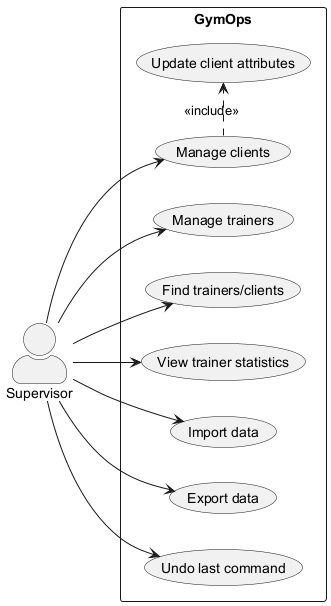
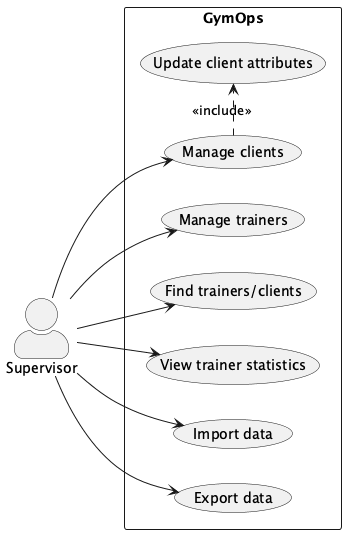
Fix UG/DG consistency, correct UML diagrams, remove stale AB3 references

Changed region(s): [[0.0, 0.0, 0.997, 1.0], [0.2417, 0.809, 0.2719, 0.839], [0.2115, 0.779, 0.2417, 0.809]]

diff --git a/docs/UserGuide.md b/docs/UserGuide.md
@@ -389,16 +389,17 @@ Format: `stats`
 
 #### Deleting a trainer: `delete-trainer`
 
-Deletes a trainer from GymOps.
+Alias for `delete t/INDEX`. Deletes a trainer from GymOps.
 
 Format: `delete-trainer INDEX`
 
 * `INDEX` must refer to a trainer in the **trainer list**.
+* This command is equivalent to `delete t/INDEX`.
 
 <div markdown="span" class="alert alert-warning">:exclamation: **Caution:** A trainer cannot be deleted if they still have active clients. Use `delete-client` to remove their clients first.</div>
 
 Examples:
-* `delete-trainer 1` — deletes the 1st trainer.
+* `delete-trainer 1` — deletes the 1st trainer (same as `delete t/1`).
 
 **Expected outcome:** The trainer is permanently removed from the application, and a success message is displayed.
 
@@ -521,16 +522,17 @@ Examples:
 
 #### Deleting a client: `delete-client`
 
-Deletes a client from GymOps. The client is permanently removed and unassigned from their trainer.
+Alias for `delete c/INDEX`. Deletes a client from GymOps. The client is permanently removed and unassigned from their trainer.
 
 Format: `delete-client INDEX`
 
 * `INDEX` must refer to a client in the **client list**.
+* This command is equivalent to `delete c/INDEX`.
 
 <div markdown="span" class="alert alert-info">:bulb: **Tip:** Run `find-clients NAME` first to locate the client, then use the index shown in the filtered list.</div>
 
 Examples:
-* `delete-client 1` — deletes the 1st client in the current list.
+* `delete-client 1` — deletes the 1st client in the current list (same as `delete c/1`).
 
 **Expected outcome:** The client is permanently removed from the application, their assigned trainer's client count is updated, and a success message is displayed.
 
@@ -666,6 +668,30 @@ If you enter an invalid tag (or break the JSON format), GymOps may fail to load 
 **Q: How do I transfer my data to another computer?**
 
 Install GymOps on the other computer and replace the empty data file it creates with your existing data file from `[JAR file location]/data/GymOps.json`.
+
+---
+
+**Q: Why can't I delete a trainer?**
+
+A trainer cannot be deleted if they still have active clients. Use `delete-client` or `delete c/` to remove all of the trainer's clients first, then delete the trainer.
+
+---
+
+**Q: Can I undo a command?**
+
+GymOps does not currently support an undo command. Before running destructive commands like `clear` or `delete`, consider running `export` first to back up your data.
+
+---
+
+**Q: Why does my calorie intake not reset to zero each day?**
+
+GymOps does not automatically reset daily calorie intake. You can reset a client's intake by running `log-calorie` with a corrected cumulative total, or by editing the data file directly while GymOps is closed.
+
+---
+
+**Q: Can I add tags via a command?**
+
+There is currently no CLI command to assign tags. Tags can only be added by editing the `tags` field in the data file directly (see [Editing the data file](#editing-the-data-file)). Only edit the file while GymOps is **closed**.
 
 ---
 

diff --git a/docs/DevOps.md b/docs/DevOps.md
@@ -52,7 +52,7 @@ In addition to running Gradle checks, CI includes some repository-wide checks. U
 
 These checks are implemented as POSIX shell scripts, and thus can only be run on POSIX-compliant operating systems such as macOS and Linux. To run all checks locally on these operating systems, execute the following in the repository root directory:
 
-`./config/travis/run-checks.sh`
+`./.github/run-checks.sh`
 
 Any warnings or errors will be printed out to the console.
 
@@ -73,7 +73,7 @@ Any warnings or errors will be printed out to the console.
 
 Here are the steps to create a new release.
 
-1. Update the version number in [`MainApp.java`](https://github.com/se-edu/addressbook-level3/tree/master/src/main/java/seedu/address/MainApp.java).
+1. Update the version number in `src/main/java/seedu/address/MainApp.java`.
 1. Generate a fat JAR file using Gradle (i.e., `gradlew shadowJar`).
 1. Tag the repo with the version number. e.g. `v0.1`
 1. [Create a new release using GitHub](https://help.github.com/articles/creating-releases/). Upload the JAR file you created.

diff --git a/docs/DeveloperGuide.md b/docs/DeveloperGuide.md
@@ -538,10 +538,10 @@ All three `find*` command parsers enforce the same keyword rules:
 
 1. The input must contain at least one keyword (empty input is rejected).
 2. Keywords are split by whitespace.
-3. Each keyword must match the regex `[\p{Alnum}\-'/]+`.
-    * i.e., only letters/digits plus `-`, `'`, `/` are allowed.
-    * examples of accepted keywords: `alex`, `tan`, `o'connor`, `upper-body`, `s/o`.
-    * examples of rejected keywords: `Bob@`, `Alice!`, `john.doe`.
+3. Each keyword must match the regex `[\p{Alnum}\-'/.]+`.
+    * i.e., only letters/digits plus `-`, `'`, `/`, `.` are allowed.
+    * examples of accepted keywords: `alex`, `tan`, `o'connor`, `upper-body`, `s/o`, `john.doe`.
+    * examples of rejected keywords: `Bob@`, `Alice!`, `john_doe`.
 
 These constraints keep parsing predictable and ensure that keywords remain unambiguous “tokens”.
 

diff --git a/docs/SettingUp.md b/docs/SettingUp.md
@@ -48,7 +48,7 @@ If you plan to use Intellij IDEA (highly recommended):
    When you are ready to start coding, we recommend that you get some sense of the overall design by reading about [AddressBook’s architecture](DeveloperGuide.md#architecture).
 
 1. **Do the tutorials**
-   These tutorials will help you get acquainted with the codebase.
+   These se-edu tutorials cover the general AB3-based architecture that GymOps is built on. Note that some class names differ in GymOps (e.g., GymOps uses `EditClientCommand`/`EditTrainerCommand` instead of `EditCommand`, and `DeleteCommand` instead of a single-field delete).
 
    * [Tracing code](https://se-education.org/guides/tutorials/ab3TracingCode.html)
    * [Adding a new command](https://se-education.org/guides/tutorials/ab3AddRemark.html)
